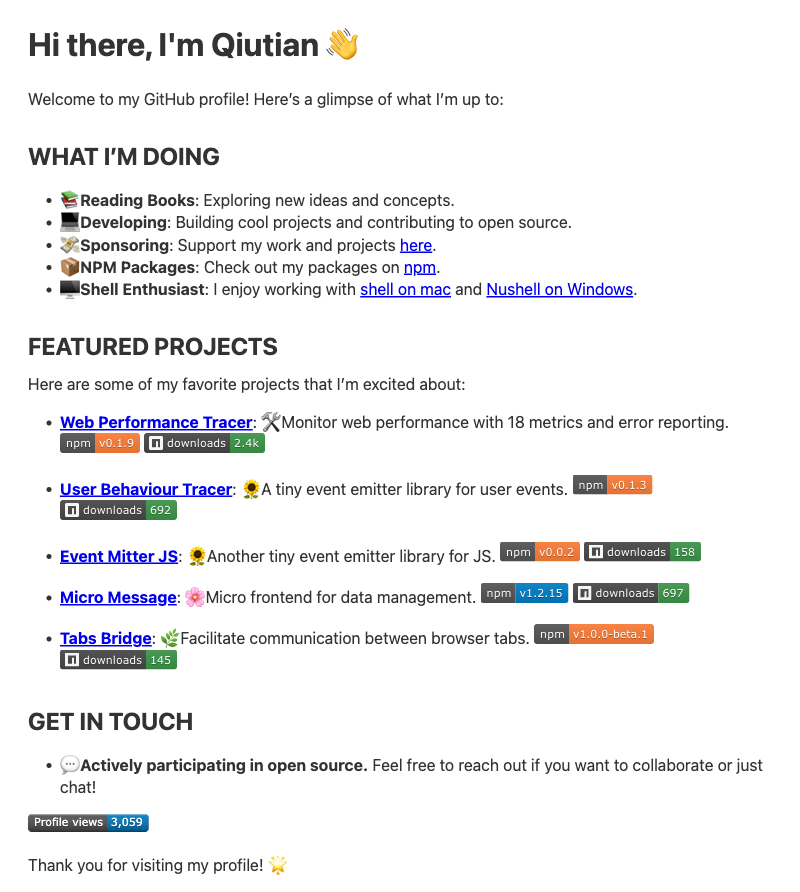
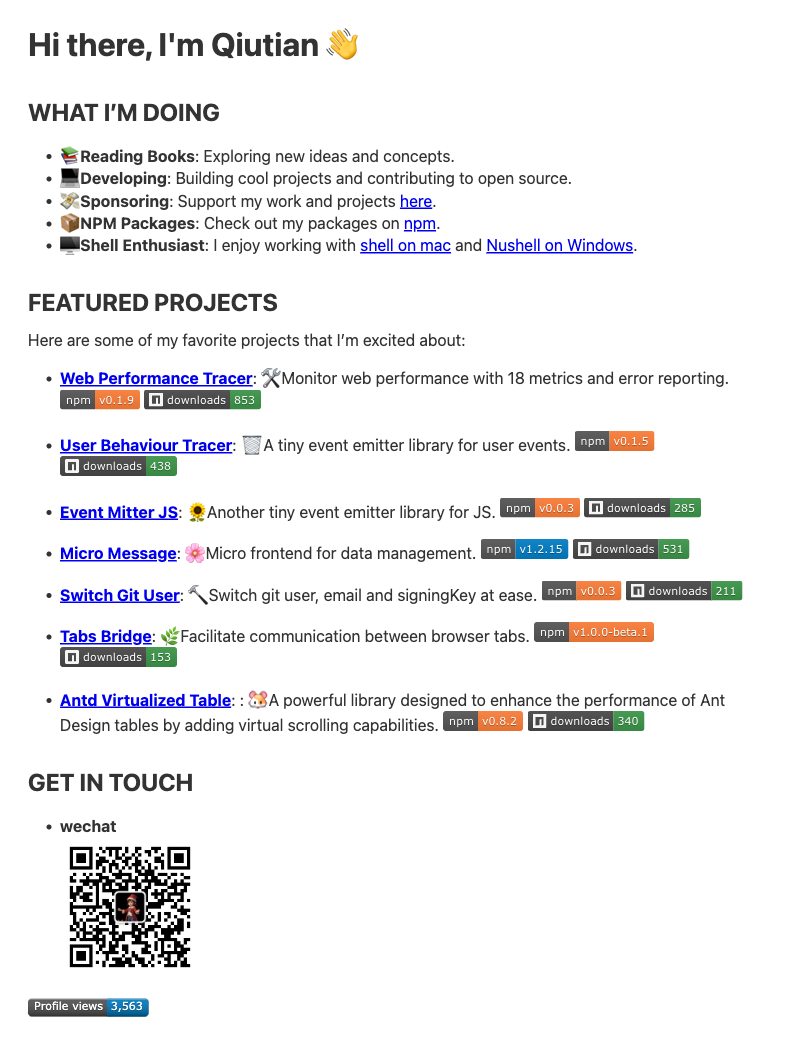
docs: update readme and png

Changed region(s): [[0.0312, 0.0908, 0.9688, 0.9989], [0.0312, 0.0303, 0.4688, 0.0605]]

diff --git a/index.html b/index.html
@@ -17,7 +17,6 @@
   </head>
   <body>
     <h1 id="hi-there-im-qiutian-👋">Hi there, I&#39;m Qiutian 👋</h1>
-<p>Welcome to my GitHub profile! Here’s a glimpse of what I’m up to:</p>
 <h2 id="what-im-doing">What I’m Doing</h2>
 <ul>
 <li>📚 <strong>Reading Books</strong>: Exploring new ideas and concepts.</li>
@@ -32,7 +31,7 @@
 <li><p><strong><a href="https://github.com/qiutian00/web-performance-tracer">Web Performance Tracer</a></strong>: 🛠 Monitor web performance with 18 metrics and error reporting.
 <a href="https://npmjs.com/package/web-performance-tracer"><img src="https://img.shields.io/npm/v/web-performance-tracer.svg" alt="npm"></a> <a href="https://www.npmjs.com/package/web-performance-tracer"><img src="https://img.shields.io/npm/dt/web-performance-tracer?style=flat&label=downloads&color=3b9648&labelColor=484848&logo=npm" alt=""></a></p>
 </li>
-<li><p><strong><a href="https://www.npmjs.com/package/user-behaviour-tracer">User Behaviour Tracer</a></strong>: 🌻 A tiny event emitter library for user events.
+<li><p><strong><a href="https://www.npmjs.com/package/user-behaviour-tracer">User Behaviour Tracer</a></strong>: 🗑     A tiny event emitter library for user events.
 <a href="https://npmjs.com/package/user-behaviour-tracer"><img src="https://img.shields.io/npm/v/user-behaviour-tracer.svg" alt="npm"></a> <a href="https://www.npmjs.com/package/user-behaviour-tracer"><img src="https://img.shields.io/npm/dt/user-behaviour-tracer?style=flat&label=downloads&color=3b9648&labelColor=484848&logo=npm" alt=""></a></p>
 </li>
 <li><p><strong><a href="https://github.com/qiutian00/event-mitter-js">Event Mitter JS</a></strong>: 🌻 Another tiny event emitter library for JS.
@@ -41,16 +40,26 @@
 <li><p><strong><a href="https://github.com/qiutian00/micro-message">Micro Message</a></strong>: 🌸 Micro frontend for data management.
 <a href="https://npmjs.com/package/micro-message"><img src="https://img.shields.io/npm/v/micro-message.svg" alt="npm"></a> <a href="https://www.npmjs.com/package/micro-message"><img src="https://img.shields.io/npm/dt/micro-message?style=flat&label=downloads&color=3b9648&labelColor=484848&logo=npm" alt=""></a></p>
 </li>
+<li><p><strong><a href="https://github.com/qiutian00/sugit">Switch Git User</a></strong>: 🔨     Switch git user, email and signingKey at ease.
+<a href="https://npmjs.com/package/sugit"><img src="https://img.shields.io/npm/v/sugit.svg" alt="npm"></a> <a href="https://www.npmjs.com/package/sugit"><img src="https://img.shields.io/npm/dt/sugit?style=flat&label=downloads&color=3b9648&labelColor=484848&logo=npm" alt=""></a></p>
+</li>
 <li><p><strong><a href="https://github.com/qiutian00/tabs-bridge">Tabs Bridge</a></strong>: 🌿 Facilitate communication between browser tabs.
 <a href="https://npmjs.com/package/tabs-bridge"><img src="https://img.shields.io/npm/v/tabs-bridge.svg" alt="npm"></a> <a href="https://www.npmjs.com/package/tabs-bridge"><img src="https://img.shields.io/npm/dt/tabs-bridge?style=flat&label=downloads&color=3b9648&labelColor=484848&logo=npm" alt=""></a></p>
+</li>
+<li><p><strong><a href="https://github.com/qiutian00/antd-virtualized-table">Antd Virtualized Table</a></strong>: :
+🐹 A powerful library designed to enhance the performance of Ant Design tables by adding virtual scrolling capabilities.
+<a href="https://npmjs.com/package/antd-virtualized-table"><img src="https://img.shields.io/npm/v/antd-virtualized-table.svg" alt="npm"></a> <a href="https://www.npmjs.com/package/antd-virtualized-table"><img src="https://img.shields.io/npm/dt/antd-virtualized-table?style=flat&label=downloads&color=3b9648&labelColor=484848&logo=npm" alt=""></a></p>
 </li>
 </ul>
 <h2 id="get-in-touch">Get In Touch</h2>
 <ul>
-<li>💬 <strong>Actively participating in open source.</strong> Feel free to reach out if you want to collaborate or just chat!</li>
+<li><strong>wechat</strong><p>
+  <img src="https://fastly.jsdelivr.net/gh/bucketio/img16@main/2025/06/14/1749907694490-808a8729-17c1-466d-a95e-9c77e85de1f3.jpg" style="width: 140px;">
+</p>
+
+</li>
 </ul>
 <p><img src="https://komarev.com/ghpvc/?username=qiutian00&style=plastic" alt="Profile Views"></p>
-<p>Thank you for visiting my profile! 🌟</p>
 
   </body>
 </html>

diff --git a/README.md b/README.md
@@ -1,7 +1,5 @@
 # Hi there, I'm Qiutian 👋
 
-Welcome to my GitHub profile! Here’s a glimpse of what I’m up to:
-
 ## What I’m Doing
 
 - 📚 **Reading Books**: Exploring new ideas and concepts.
@@ -38,8 +36,9 @@ Here are some of my favorite projects that I’m excited about:
 
 ## Get In Touch
 
-- 💬 **Actively participating in open source.** Feel free to reach out if you want to collaborate or just chat!
+- **wechat**
+<p>
+    <img src="https://fastly.jsdelivr.net/gh/bucketio/img16@main/2025/06/14/1749907694490-808a8729-17c1-466d-a95e-9c77e85de1f3.jpg" style="width: 140px;">
+</p>
 
 ![Profile Views](https://komarev.com/ghpvc/?username=qiutian00&style=plastic)
-
-Thank you for visiting my profile! 🌟
